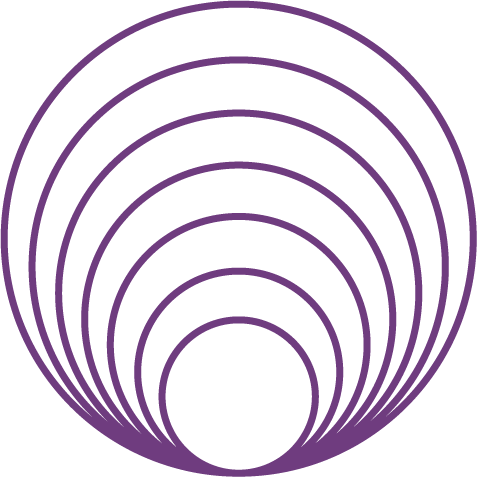
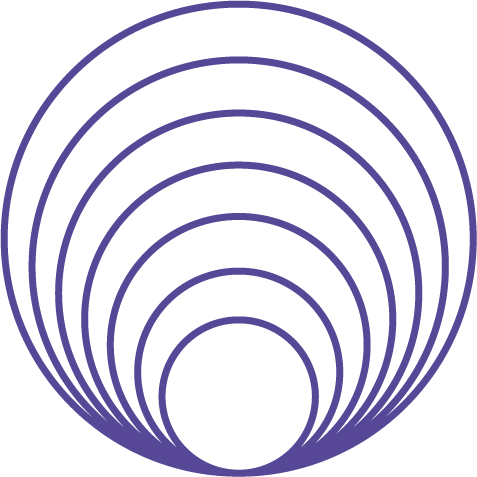
commm

diff --git a/app/components/Test.tsx b/app/components/Test.tsx
@@ -1,25 +1,47 @@
 'use client';
-import React from 'react'
+import React, { useEffect } from 'react';
 import { ReactLenis } from 'lenis/react';
 import ServicesSection from './ServicesSection';
 
+import gsap from 'gsap';
+import { ScrollTrigger } from 'gsap/ScrollTrigger';
+
 export default function Test() {
 
+  useEffect(() => {
+    // Register ScrollTrigger with GSAP
+    gsap.registerPlugin(ScrollTrigger);
+
+    // Animation for the background zoom effect on scroll
+    gsap.to(".pattern-bg", {
+      scale: 1.5, // More reasonable zoom level (adjust as necessary)
+      scrollTrigger: {
+        trigger: ".zoom-section", // The section you want to trigger the animation on
+        start: "top bottom", // Start when the section hits the top of the viewport
+        end: "bottom bottom", // End when the section hits the bottom of the viewport
+        scrub: true, // Make the animation smooth as you scroll
+        markers: false, // Set to true for debugging the scroll trigger markers
+      },
+    });
+
+  }, []);
 
   return (
     <ReactLenis root>
-    <main>
-      <article>
-        
-
-        <section className='grid bg-[#3dc1f0] text-black place-content-center h-screen sticky top-0 overflow-hidden'>
-          <h1>fixed section</h1>
-        </section>
-        <section className=' w-full  grid place-content-center sticky top-0 rounded-tr-3xl rounded-tl-3xl'>
-          <ServicesSection />
-        </section>
-      </article>
-    </main>
-  </ReactLenis>
-  )
+      <main>
+          <section className='zoom-section bg-[#3dc1f0] text-black grid place-content-center h-screen sticky top-0 overflow-hidden'>
+            <div className='pattern-bg absolute bottom-0 left-0 right-0 top-0 bg-[linear-gradient(to_right,#fff_1px,transparent_1px),linear-gradient(to_bottom,#fff_1px,transparent_1px)] bg-[size:140px_140px]'></div>
+            <h1 className='2xl:text-7xl text-6xl px-8 font-semibold text-center tracking-tight leading-[120%] z-10'>
+              رحلتك للنجاح تبدأ من هنا
+            </h1>
+            <p className='text-2xl px-8 font-semibold text-center mt-6 z-10'>
+            نحن في القوة الإبداعية للتسويق لا نعتبرك عميلًا فقط، بل شريكًا حقيقيًا في مسيرتك نحو النجاح. دعنا نضع استراتيجياتنا المتطورة وخبراتنا في خدمتك، لنخلق معًا قصص نجاح ملهمة.
+            </p>
+          </section>
+          <section className='w-full grid place-content-center sticky top-0 rounded-tr-3xl rounded-tl-3xl'>
+            <ServicesSection />
+          </section>
+      </main>
+    </ReactLenis>
+  );
 }

diff --git a/app/components/ImageSwiper.tsx b/app/components/ImageSwiper.tsx
@@ -68,8 +68,10 @@ const ImageSwiper: React.FC = () => {
         <Image 
           src="/works/1.PNG" // You can also use import to get a local image.
           alt="work 1" 
-          layout="fill" 
-          objectFit="cover" 
+          width="1080"
+          height="1920"
+          style={{ objectFit: 'cover' }}
+          className="w-full h-auto"
         />
         </div>
       </SwiperSlide>
@@ -79,9 +81,10 @@ const ImageSwiper: React.FC = () => {
         <Image 
           src="/works/2.PNG" // You can also use import to get a local image.
           alt="work 2" 
-          layout="fill" 
-          objectFit="cover" 
-          sizes="(max-width: 600px) 100vw, (max-width: 1200px) 50vw, 33vw" 
+          width="1080"
+          height="1920"
+          style={{ objectFit: 'cover' }}
+          className="w-full h-auto"
         />
         </div>
       </SwiperSlide>
@@ -91,9 +94,10 @@ const ImageSwiper: React.FC = () => {
         <Image 
           src="/works/3.JPEG" // You can also use import to get a local image.
           alt="work 3" 
-          layout="fill" 
-          objectFit="cover" 
-          sizes="(max-width: 600px) 100vw, (max-width: 1200px) 50vw, 33vw" 
+          width="1080"
+          height="1920"
+          style={{ objectFit: 'cover' }}
+          className="w-full h-auto"
         />
         </div>
       </SwiperSlide>
@@ -103,9 +107,10 @@ const ImageSwiper: React.FC = () => {
         <Image 
           src="/works/4.JPEG" // You can also use import to get a local image.
           alt="work 4" 
-          layout="fill" 
-          objectFit="cover" 
-          sizes="(max-width: 600px) 100vw, (max-width: 1200px) 50vw, 33vw" 
+          width="1080"
+          height="1920"
+          style={{ objectFit: 'cover' }}
+          className="w-full h-auto"
         />
         </div>
       </SwiperSlide>
@@ -115,9 +120,10 @@ const ImageSwiper: React.FC = () => {
         <Image 
           src="/works/5.jpeg" // You can also use import to get a local image.
           alt="work 5" 
-          layout="fill" 
-          objectFit="cover" 
-          sizes="(max-width: 600px) 100vw, (max-width: 1200px) 50vw, 33vw" 
+          width="1080"
+          height="1920"
+          style={{ objectFit: 'cover' }}
+          className="w-full h-auto"
         />
         </div>
       </SwiperSlide>

diff --git a/app/components/ContactSection.tsx b/app/components/ContactSection.tsx
@@ -1,7 +1,15 @@
 'use client';
-import { useState } from 'react';
+import { useState, useRef } from 'react';
+import MouseBlurEffect from "./MouseBlurEffect";
+
 
 const ContactSection = () => {
+
+  const sectionRef = useRef<HTMLDivElement | null>(null); // Reference to the section
+      const centerColor = "#192429"; // Color at the center
+      const edgeColor = "#070A0B";
+
+
   // Manage the state for each form field
   const [formData, setFormData] = useState({
     name: '',
@@ -39,12 +47,21 @@ const ContactSection = () => {
 
   return (
     <>
-    <div id='contact' className='px-4 lg:px-8 bg-[#070A0B]'>
+    
+    <section className='relative bg-[#070A0B]  pb-10 px-4 lg:px-8 overflow-hidden' ref={sectionRef}>
+
+
+    <MouseBlurEffect 
+        containerRef={sectionRef} 
+        centerColor={centerColor} 
+        edgeColor={edgeColor} 
+      />
+
+    <div id='contact' className=' bg-[#070A0B]'>
         <h1 className='bottom-to-top-text1 text-white text-4xl md:text-5xl font-medium py-10'>تواصل معنا</h1>
     </div>
-    <section className='bg-[#070A0B] flex items-center justify-center pb-10 px-4 lg:px-8'>
-       
-      <form onSubmit={handleSubmit} className="space-y-4 w-[95%] md:w-[50%] justify-center text-left ">
+       <div className='flex items-center justify-center'>
+      <form onSubmit={handleSubmit} className=" space-y-4 w-[95%] md:w-[50%] justify-center text-left ">
         {/* Name */}
         <div>
           <input 
@@ -109,6 +126,7 @@ const ContactSection = () => {
           </button>
         </div>
       </form>
+      </div>
     </section>
     </>
   );

diff --git a/app/components/PartnersSection.tsx b/app/components/PartnersSection.tsx
@@ -1,8 +1,7 @@
 // app/components/ImageSection.tsx
 'use client';
 import React from 'react';
-import { useEffect, useRef } from 'react';
-import gsap from 'gsap';
+import { useRef } from 'react';
 import Image from "next/image";
 import MouseBlurEffect from "./MouseBlurEffect";
 
@@ -11,27 +10,8 @@ import MouseBlurEffect from "./MouseBlurEffect";
 const PartnersSection: React.FC = () => {
 
     const sectionRef = useRef<HTMLDivElement | null>(null); // Reference to the section
-      const centerColor = "#d4d7d9"; // Color at the center
+      const centerColor = "#564897"; // Color at the center
       const edgeColor = "#f7fafc";
-
-  useEffect(() => {
-    // GSAP animation with ScrollTrigger
-    gsap.fromTo(
-      '.fade-image', // target the image class
-      {
-        opacity: 0, // start with the image invisible
-      },
-      {
-        opacity: 1, // make the image fully visible
-        duration: 1.5, // duration of the fade-in effect
-        scrollTrigger: {
-          trigger: '.fade-image', // the image element itself is the trigger
-          start: 'top 80%', // when the top of the image reaches 80% from the top of the viewport
-          end: 'top 30%', // when the top of the image reaches 30% from the top of the viewport
-        },
-      }
-    );
-  }, []);
 
 
   // Array to generate image paths

diff --git a/app/components/Hero.tsx b/app/components/Hero.tsx
@@ -42,10 +42,9 @@ const Hero: React.FC = () => {
           <Image 
             src="/logos/01.gif" // You can also use import to get a local image.
             alt="work 1" 
-            width={500} 
-            height={500}
+            width={1596} 
+            height={358}
             unoptimized // Disable image optimization for GIFs
-            className="w-[250px] md:w-full"
  
           />
         <button ref={triggerButtonRef} className="bg-white  hover:bg-gray-400 px-6 py-2 text-black hover:bg-gray-400px-6 mt-20 md:mt-1 transition-all duration-300" onClick={openModal} >

diff --git a/app/components/ServicesSection.tsx b/app/components/ServicesSection.tsx
@@ -19,18 +19,6 @@ const ServicesSection: React.FC = () => {
 
   useEffect(() => {
 
-  gsap.fromTo('.img-top',{
-    opacity:0,
-},{
-    opacity: 1,
-      scrollTrigger: {
-        trigger: ".img-top",
-        start: "top 90%", // Start counting when the number is near 80% of the viewport height
-        end: "top 20%", // End when the top of the number reaches 30% of the viewport height
-        scrub: 1,}
-});
-
-
 const texts = gsap.utils.toArray('.bottom-to-top-text') as HTMLElement[];
 
 

diff --git a/app/components/ZoomingLogo.tsx b/app/components/ZoomingLogo.tsx
@@ -64,8 +64,8 @@ export default function ZoomingLogo() {
             src="/logos/ZOOM.svg" // You can also use import to get a local image.
             alt="Image 1"
             layout="fill"
-            objectFit="cover" 
-            className="logo relative w-full h-full z-40"
+            style={{ objectFit: 'cover' }}
+            className="logo  z-40"
           />
 
           <div className="absolute flex justify-center items-center text-center">
